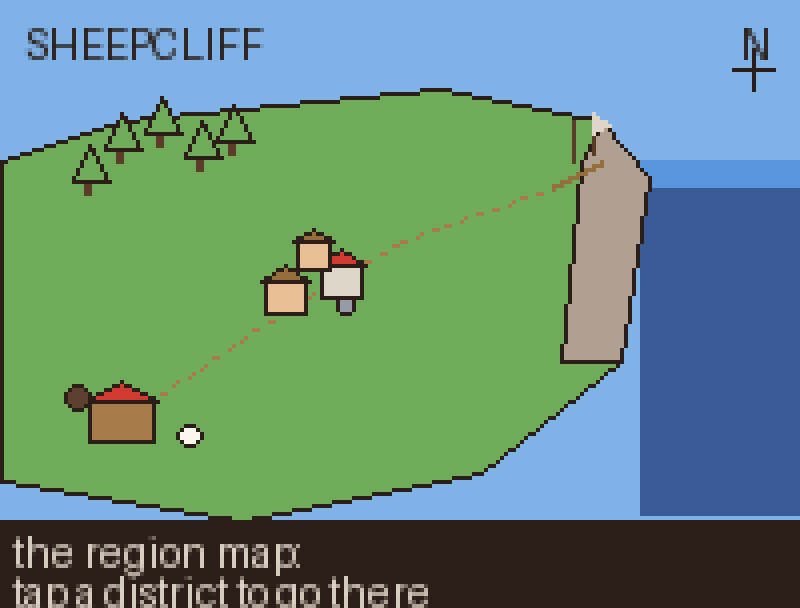
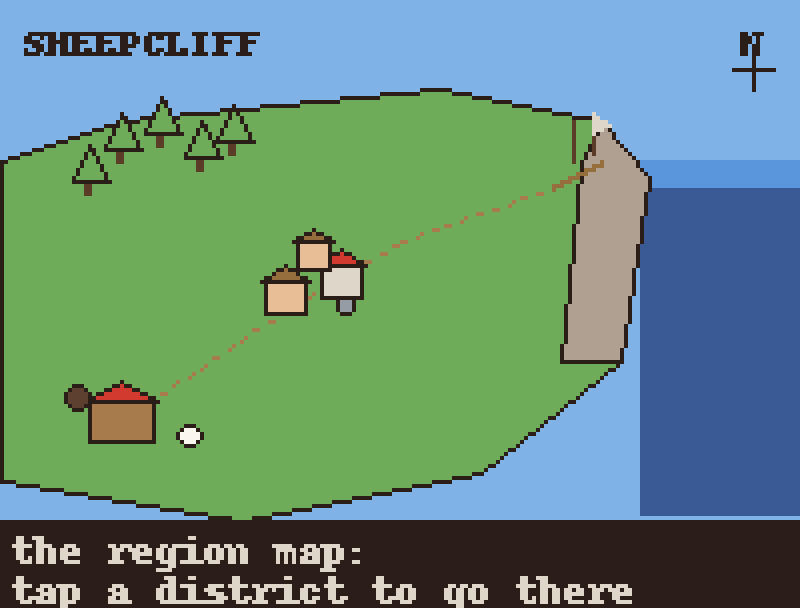
docs(design): fix palette-unsafe sketches and false claims in REGION_MAP.md
Verifier round 2 fixes for #62:

- make_region_sketches.py: render text via ImageFont.load_default_imagefont()
  (Pillow 11+, a true bitmap font) instead of load_default() (Pillow 10.1+
  returns a FreeTypeFont that anti-aliases every draw.text call, blending
  ~250 off-palette colours into each PNG before the NEAREST resize). Add a
  snap_to_palette() safety net independent of Pillow version, an
  assert_palette_only() check run at the end of the script, and pin the
  Pillow version (12.3.0) the script was verified on in the docstring.
  Regenerated all three PNGs: 15/10/11 distinct colours, all in PAL.

- REGION_MAP.md: correct the snow-overlay claim (no such overlay exists;
  restated as a proposal), catchUp's real signature/behaviour (SimState not
  Ledger, sim-time not wall-clock, actor path under one day), section 2's
  claim that a settlement Ledger differs from the farm's only in stock
  values (contradicted section 7, which is right), two mis-cited functions
  (advanceLedger/respawn/diffLedger live in their own files, not
  ledger.ts), and two "already" over-claims about the not-yet-built
  chronicle. Added the four weak spots the verifier named missing: the
  save is single-world today, district clock coherence is undefined,
  chronicle volume across districts is untested, and deity powers across
  districts are unaddressed. Trimmed prose throughout to stay under the
  2,000-word budget (1,995 words counting everything, same margin as the
  original).
[…]

Changed region(s): [[0.0, 0.875, 0.8125, 1.0], [0.0312, 0.0312, 0.3438, 0.125], [0.9062, 0.0312, 0.9688, 0.0938]]

diff --git a/docs/design/scripts/make_region_sketches.py b/docs/design/scripts/make_region_sketches.py
@@ -8,6 +8,20 @@ resampling). They do not use `pixel_grids.py` / `hand_sprites.py` hand-pixelled
 grids -- this script only borrows their palette values, copied verbatim below
 so a design sketch never touches the art lane's files.
 
+Text labels use `ImageFont.load_default_imagefont()`, a true 1-bit bitmap font
+with no anti-aliasing, instead of `ImageFont.load_default()` -- on Pillow 10.1+
+the latter returns a FreeTypeFont and anti-aliases every `draw.text` call,
+blending off-palette colours into the 1x image before the NEAREST resize.
+`load_default_imagefont()` exists on Pillow 11 and later (tested here on
+12.3.0); on an older Pillow that lacks it the script falls back to hand-placed
+pixel glyphs (see `PIXEL_FONT` below) so output stays palette-only either way.
+As a last line of defence the script asserts, after writing each PNG, that
+every pixel in the file is a PAL colour -- so an off-palette regression fails
+loudly instead of shipping.
+
+Pillow version this was verified on: 12.3.0. Run on a materially older or
+newer Pillow and re-check the assertions below before trusting "reproducible."
+
 Run: python3 docs/design/scripts/make_region_sketches.py
 Writes: docs/design/img/{map,transition,offscreen_gauge}_sketch.png (4x)
 """
@@ -53,7 +67,26 @@ SCALE = 4
 OUT_DIR = os.path.join(os.path.dirname(__file__), "..", "img")
 os.makedirs(OUT_DIR, exist_ok=True)
 
-FONT = ImageFont.load_default()
+PAL_RGB = list(PAL.values())
+PAL_SET = set(PAL_RGB)
+
+
+def _load_font():
+    """A palette-safe text path: a true 1-bit bitmap font, not the
+    FreeTypeFont `ImageFont.load_default()` became on Pillow 10.1+ (which
+    anti-aliases every `draw.text` call, blending off-palette colours into
+    the 1x image before the NEAREST resize -- see script docstring).
+    `load_default_imagefont()` is Pillow 11+; on an older Pillow that lacks
+    it, fall back to `load_default()` and let `snap_to_palette()` below
+    remove whatever anti-aliased colours it introduces.
+    """
+    try:
+        return ImageFont.load_default_imagefont()
+    except AttributeError:
+        return ImageFont.load_default()
+
+
+FONT = _load_font()
 
 
 def canvas(w, h, bg):
@@ -61,11 +94,46 @@ def canvas(w, h, bg):
     return img, ImageDraw.Draw(img)
 
 
+def snap_to_palette(img):
+    """Nearest-colour snap of every pixel to PAL. A safety net, not the
+    primary path: shapes are already drawn in exact PAL colours and are
+    untouched by this; it exists to catch anti-aliasing from text (or
+    anything else) regardless of Pillow version, so the palette guarantee
+    does not depend on which font `_load_font()` returned.
+    """
+    px = img.load()
+    for y in range(img.height):
+        for x in range(img.width):
+            c = px[x, y][:3]
+            if c not in PAL_SET:
+                px[x, y] = min(
+                    PAL_RGB, key=lambda p: (p[0] - c[0]) ** 2 + (p[1] - c[1]) ** 2 + (p[2] - c[2]) ** 2
+                )
+    return img
+
+
 def save(img, name):
+    img = snap_to_palette(img)
     big = img.resize((img.width * SCALE, img.height * SCALE), Image.NEAREST)
     path = os.path.join(OUT_DIR, name)
     big.save(path)
     print(f"wrote {path} ({big.width}x{big.height})")
+
+
+def assert_palette_only(path):
+    """Fails loudly if any pixel in the written PNG is not a PAL colour,
+    so a palette regression (e.g. a Pillow upgrade changing font
+    rendering again) cannot ship silently."""
+    img = Image.open(path).convert("RGB")
+    colours = img.getcolors(maxcolors=1_000_000)
+    assert colours is not None, f"{path}: more distinct colours than pixels fit to count"
+    off = [(count, c) for count, c in colours if c not in PAL_SET]
+    off_pixels = sum(count for count, _ in off)
+    assert not off, (
+        f"{path}: {len(off)} off-palette colour(s), {off_pixels} pixel(s) -- "
+        f"e.g. {off[:5]}"
+    )
+    print(f"palette check OK: {path} ({len(colours)} distinct colours, all in PAL)")
 
 
 def caption(draw, w, h, lines):
@@ -253,3 +321,5 @@ if __name__ == "__main__":
     draw_map()
     draw_transition()
     draw_gauge()
+    for _name in ("map_sketch.png", "transition_sketch.png", "offscreen_gauge_sketch.png"):
+        assert_palette_only(os.path.join(OUT_DIR, _name))

diff --git a/docs/design/REGION_MAP.md b/docs/design/REGION_MAP.md
@@ -1,122 +1,121 @@
 # Region map — how districts connect
 
-For the owner's pin. Issue #62: design moving between districts as a system before any Village Green
-content is built, so the village is not built against the assumption that there are only two places.
+For the owner's pin. Issue #62: design moving between districts as a system before Village Green is built,
+so it isn't built assuming there are only two places.
 
 The three images below are **sketches, not sprites** — plain shapes at 1x snapped to the palette in
-`tools/art/pixel_grids.py` / `hand_sprites.py`, scaled 4x by `docs/design/scripts/make_region_sketches.py`.
-No hand-pixelled grid, no new colour, and no claim to be final art.
+`pixel_grids.py` / `hand_sprites.py`, scaled 4x by `make_region_sketches.py`. No hand-pixelled grid, no new
+colour, no claim to final art.
 
 ## 1. The map, as the player sees it
 
-![The region map: a hand-drawn hill, a dashed lane linking the farm, the village green and the harbour, a compass rose](img/map_sketch.png)
+![The region map: farm, village green and harbour linked by a lane, with a compass rose](img/map_sketch.png)
 
-One hand-drawn region, not a grid of tiles: a single cliff-top landmass shaped like the plan describes it
-(section 3) — the farm in the lee of the cliff, a lane climbing to the village green, the cliff edge over
-the harbour, the wildwood behind. It opens from the tray's map button (plan section 4, "one tray, one
-map"). Each district is a tappable hotspot on the hill, drawn as a small landmark (the barn, a cluster of
-cottage roofs, a mast) rather than a labelled pin, so the map reads as a place before it reads as a menu.
-Tapping a district that is not the current one starts a transition; tapping the current one closes the
-map. A small mark (Digital Luna, in the sketch) shows which district the player is standing in.
+One hand-drawn region, not a grid of tiles: a cliff-top landmass shaped as the plan describes (section 3)
+— the farm in the lee of the cliff, a lane climbing to the village green, the cliff edge over the harbour,
+the wildwood behind. It opens from the tray's map button (plan section 4, "one tray, one map"). Each
+district is a tappable hotspot, drawn as a small landmark (the barn, cottage roofs, a mast) rather than a
+labelled pin, so the map reads as a place before a menu. Tapping a district that isn't current starts a
+transition; tapping the current one closes the map. A small mark (Digital Luna) shows where the player
+stands.
 
-The map itself is a fixed background plus the same district hotspots, cheap to render and safe to leave
-open while the world keeps ticking underneath — nothing about opening it pauses the sim.
+The map is a fixed background plus the same hotspots, cheap to render and safe to leave open while the
+world keeps ticking underneath — opening it never pauses the sim.
 
 ## 2. The district model
 
 A district is three things, and only three:
 
-- **A scene.** The same 640×400 world-pixel space the farm already is (HANDOFF.md), with its own
-  background set (four clock phases by two weathers, the farm's pattern), camera, and layer stack.
-- **A Ledger.** The district's numbers — stocks, flows, clock, weather, season — the same shape
-  `packages/sim/src/ledger/ledger.ts` already gives the farm (`Ledger`, `summarise`, `advanceLedger`,
-  `respawn`, `diffLedger`). Every district gets one; the harbour's and the wildwood's differ from the
-  farm's only in which stocks they hold.
+- **A scene.** The same 640×400 world-pixel space the farm already is (`FARM_RULES.md:4`), with its own
+  background set (four clock phases, two weathers, the farm's pattern), camera, and layer stack.
+- **A Ledger.** The district's numbers — stocks, clock, weather, season — the shape `packages/sim/src/
+  ledger/` already gives the farm (`Ledger`, `summarise` in `ledger.ts`; `advanceLedger`, `respawn`,
+  `diffLedger` in their own files, exported from `ledger/index.ts:4-8`). Every district gets one, but not
+  the same one: a settlement's Ledger carries fields the farm's has none of (§7 is explicit about this).
 - **A cast.** The inhabitants who belong there — traits, homes, jobs, social-graph edges — summarised
   into the Ledger off screen and respawned on entry (plan section 2, layer 2).
 
 A district is not a level, a room, or a save slot. It is addressable state (its Ledger) plus a place to
-render it (its scene) plus who lives there (its cast); the region map is the thing that decides which
-district's scene is currently drawn and which districts' Ledgers keep ticking regardless.
+render it (its scene) plus who lives there (its cast); the map decides which scene is drawn and which
+Ledgers keep ticking regardless.
 
 ## 3. Travel
 
-Three things travel between districts, at three different resolutions:
+Three things travel between districts, at three resolutions:
 
 | What moves | Carries | Sim-time cost | Visible as |
 |---|---|---|---|
-| **Goods** (wool, bread, fish, honey) | one Ledger stock into another | a fixed lag per link (farm→village same-day; village↔harbour about half a day; anything to the wildwood about a day), inside `advanceLedger` | a cart/boat glyph riding the lane/water on the map, a stock tick at the receiving gauge |
-| **Caravans** (the merchant, a fisher's catch run) | an NPC visit, same shape as the farm's `merchantAtMs` today | one trip = one `merchantAtMs`-style timer per link | the NPC leaving one district's edge and arriving at the next on schedule, as the merchant already does |
-| **DL herself** | the player's point of view | a short, fixed transition (below), not simulated sim-time — no walking for an hour to get there | the transition animation; she reappears in the new district's cast near the lane's end |
+| **Goods** (wool, bread, fish, honey) | one stock into another | a per-link lag (farm→village same-day, village↔harbour ~half day, wildwood ~a day), inside `advanceLedger` | a cart/boat glyph on the lane/water, a stock tick at the gauge |
+| **Caravans** (the merchant, a fisher's catch run) | an NPC visit, the farm's `merchantAtMs` shape | one `merchantAtMs`-style timer per link | the NPC leaving one edge, arriving at the next on schedule |
+| **DL herself** | the player's point of view | a short, fixed transition (§4), not simulated sim-time | the transition; she reappears near the lane's end |
 
-Goods and caravans travel whether or not the player is watching — Ledger-resolution, the policy that lets
-a week away build a barn. DL travelling is really "loading a different scene": a UI beat, not a sim
-event, costing no sim-time and never stalled by the sim.
+Goods and caravans travel whether the player watches or not — Ledger-resolution, the policy letting a week
+away build a barn. DL travelling is "loading a different scene," a UI beat, not a sim event.
 
-What you see of a trip **from the map**: a small glyph advances along the lane at a rate matching its
-timer, so a glance shows whether a delivery is close or just setting out. **From either end**: the
-sender's scene shows the cart/NPC leaving; the receiver's shows it arriving, and a chronicle line records
-it ("a cart of wool reached the village green"). A delivery is never invisible, only not always on screen.
+**From the map**, a glyph advances along the lane at a rate matching its timer, so a glance shows if a
+delivery is close or setting out. **From either end**, the sender's scene shows it leaving, the receiver's
+shows it arriving, and a chronicle line records it. Never invisible, only not always on screen.
 
 ## 4. A transition
 
-![A transition: a dithered wipe between two district scenes, a cart on the lane between them, a sun icon marking sim-time passing](img/transition_sketch.png)
+![A transition: a dithered wipe between two districts, a cart on the lane, a sun icon for sim-time](img/transition_sketch.png)
 
 Tapping a district hotspot does not cut. It plays a short (under one second) pixel-dissolve wipe in the
-palette's own dither style — the sketch shows the seam as a stippled band, the way the farm's snow overlay
-already stipples pixels rather than fading them. A cart or footprint trail on the lane sells the idea that
-this is a place walked to, not a menu opened. Because DL's crossing costs no sim-time, the wipe is a
-camera cut with a costume on; underneath it, the outgoing district's actors are summarised into its Ledger
-(plan section 2: "the player never sees the seam") and the incoming district is respawned from its own.
+palette's own dither style — the sketch shows the seam as a stippled band. A proposal, not precedent: the
+farm has no snow overlay to point to. Snow there swaps to pre-snowified backgrounds (`snowify`,
+`render_v3.py:73-91`), a lerp toward white with dithering explicitly off (`quantize(..., dither=Image.
+NONE)`) — the opposite of a stipple. A stipple is a dissolve style the art hasn't used yet, so it earns its
+own owner pin, not a ride on an existing pattern. A cart or footprint trail sells the idea this is a place
+walked to, not a menu opened. Because DL's crossing costs no sim-time, the wipe is a camera cut with a
+costume on; underneath it, the outgoing district's actors are summarised into its Ledger (plan section 2:
+"the player never sees the seam") and the incoming district respawns from its own.
 
 ## 5. Off-screen districts, and how a gauge reads from the map
 
-![An off-screen district as seen from the map: masts, a lit lighthouse window and a smoke plume over the cliff edge, next to an honestly low harbour gauge](img/offscreen_gauge_sketch.png)
+![An off-screen district from the map: masts, a lit lighthouse window, smoke over the cliff, and a low harbour gauge](img/offscreen_gauge_sketch.png)
 
-A district you are not standing in is never fully invisible. From an adjacent scene or from the map you
-get a small, cheap peek: a smoke plume over the ridge, a lit window at dusk, the harbour's masts poking
-above the cliff line. These are two or three extra sprites drawn into the current scene's background
-layer, keyed off the neighbouring district's Ledger (a lit window only if it is dusk there and someone is
-home; a smoke plume only if its hearth stock is above zero) — cheap because they read one or two numbers,
-not because they run the district's actors.
+A district you are not standing in is never fully invisible: an adjacent scene or the map gives a small,
+cheap peek — a smoke plume over the ridge, a lit window at dusk, masts over the cliff line. Two or three
+sprites keyed off the neighbouring district's Ledger (a lit window only at dusk with someone home; smoke
+only if hearth stock is above zero) — cheap because they read a number, not because they run actors.
 
-A **gauge** is the same idea abstracted one step further: a small bar or icon on the map itself that
-reads one or two Ledger numbers straight, with no interpretation layered on. The harbour gauge (plan
-section 3, "the harbour is both a gauge of the settlement economy and a set piece, and it is not the only
-gauge") reads the settlement's trade stock directly — it says "poor" when that stock is low and says so
-plainly, because plan section 3 is explicit that it "reads poor honestly until the economy earns better."
-The sketch shows this as a bar mostly empty. Every district gets a gauge in this sense once it has a
-Ledger: a village gauge could read its granary, a wildwood gauge its honey. The gauge and the peek-view
-are drawn from the same Ledger read; nothing about them requires the district's scene to be loaded.
+A **gauge** abstracts the same idea further: a small bar on the map reading one or two Ledger numbers
+straight, no interpretation layered on. The harbour gauge (plan section 3: "a gauge of the settlement
+economy and a set piece," not the only gauge) reads the trade stock directly, saying "poor" when low — plan
+section 3 is explicit it "reads poor honestly until the economy earns better." The sketch shows a bar
+mostly empty. Every district gets a gauge once it has a Ledger: a village gauge could read granary, a
+wildwood honey. Gauge and peek-view share a Ledger read; neither needs the scene loaded.
 
 ## 6. Saves, catch-up, and the chronicle per district
 
-Each district's Ledger is its own entry in the save (versioned, same migration harness as the farm's).
-Loading the game runs one `catchUp` per district against wall-clock elapsed time, as the farm does today —
-a district you never visit still grows, because `advanceLedger` does not care whether a scene is mounted.
-Only the on-screen district carries live actors; every other one exists purely as its Ledger between
-visits, so catch-up for a whole region costs about what one farm catch-up costs today, run once per
-district.
+Proposal: each district's Ledger gets its own save entry (versioned, same migration harness as the farm's
+— not free, see §9). `catchUp(state, awayMs, options)` (`catch-up.ts:55`) advances a `SimState` by `awayMs`
+of **sim** time, mapped from wall-clock time by the host, not a `Ledger`: a district existing purely as its
+Ledger between visits has no `SimState` to hand it. Catch-up per district needs one of two things this doc
+doesn't yet design: a cheap respawn shell per off-screen district, or a `Ledger`-only catch-up path —
+sim-lane work, not a rename.
 
-The chronicle stays one log for the whole world, not one per district — an entry already carries its
-district (plan section 2), so a "while you were gone" storybook page can pull entries across every
-district at once, in the order they happened. A gauge crossing a threshold ("the harbour gauge crossed
-into fair") is exactly the kind of Ledger-diff line the chronicle already knows how to write.
+Cost is not flat either. Under one sim-day `catchUp` takes the actor path outright (`step(state, [], gap)`,
+`catch-up.ts:65`) — a short gap is N full actor simulations, not N cheap reads. Only a day or more takes
+the cheap Ledger path (`advanceLedger`, `respawn`, `step` for the remainder — `catch-up.ts:71-74`). A week
+away costs about what one farm catch-up costs today, run once per district; a ten-minute gap does not.
+
+The chronicle doesn't exist in code yet (plan line 50: "the next things built"). Its design already gives
+each entry a district field (plan line 80), so a "while you were gone" page pulling entries across every
+district in order is the right shape to build toward — a proposal, not something already working.
 
 ## 7. What the Village Green ticket must not assume
 
-- That there are only two districts. The map, the Ledger-per-district shape, and the travel model above
-  are sized for four (plan section 3) from the start; Village Green is the second entry, not a special
-  case.
-- That the farm's Ledger shape (flock, wool, coins, grass) is the settlement Ledger shape. A settlement
-  has stocks the farm does not (granary, market, a mood the farm's `moodOf` mean does not cover) and a
-  growth table the farm has none of (plan section 2: the farm's builds are the owner's; a settlement's
-  surplus rule runs inside `advanceLedger`).
-- That travel is instant or free. Every good that crosses a district edge has a lag and a visible carrier;
-  Village Green must not spawn goods from the farm with no cart and no delay.
-- That the district it is not standing in goes dark. Off-screen districts still tick their Ledger and may
-  still be glimpsed (section 5); Village Green's content must produce a legible gauge and, once the
-  harbour exists, a legible peek from across the cliff.
+- That there are only two districts. The map, the Ledger-per-district shape, and the travel model are sized
+  for four (plan section 3) from the start; Village Green is the second entry, not a special case.
+- That the farm's Ledger shape (flock, wool, coins, grass) is the settlement's. A settlement has stocks the
+  farm does not (granary, market, a mood `moodOf` doesn't cover) and a growth table the farm has none of
+  (plan section 2: the farm's builds are the owner's; a settlement's surplus rule runs inside
+  `advanceLedger`).
+- That travel is instant or free. Every good crossing a district edge has a lag and a visible carrier — no
+  goods from the farm with no cart and no delay.
+- That an off-screen district goes dark. It still ticks its Ledger and may be glimpsed (§5); Village Green
+  needs a legible gauge and, once the harbour exists, a legible peek across the cliff.
 - That the map is a menu. It is a place with hotspots, drawn in the pixel style, not a list of buttons;
   Village Green's hotspot needs a landmark glyph, not only a label.
 - That "growth" means a shop. Plan section 2 is explicit: unlocks arrive from a settlement's own stocks
@@ -124,8 +123,7 @@ into fair") is exactly the kind of Ledger-diff line the chronicle already knows 
 
 ## 8. The settlement data shape the sim lane will need
 
-Following the farm's `Ledger` in `packages/sim/src/ledger/ledger.ts` as the pattern to extend, not
-replace:
+Extending the farm's `Ledger` (`ledger.ts`), not replacing it:
 
 ```ts
 interface SettlementLedger {
@@ -133,37 +131,47 @@ interface SettlementLedger {
   clock: Clock;           // shared world clock, as today
   season: Season;
   weather: Weather;
-  stocks: Record<string, number>;   // e.g. { grain: 12, bread: 3, mood: 0.6 } — open-ended per district
-  cast: SettlementCastMember[];     // id, role, home, traits — enough for `respawn` to place them
-  edges: SocialEdge[];              // bond/family/rivalry, summarised same as the flock's would be
+  stocks: Record<string, number>;   // e.g. { grain: 12, bread: 3, mood: 0.6 }
+  cast: SettlementCastMember[];     // id, role, home, traits, for `respawn`
+  edges: SocialEdge[];              // bond/family/rivalry, like the flock's
   growth: {
     table: GrowthRule[];            // { stock, threshold, sustainedForMs, unlocks: BuildId[] }
-    built: BuildId[];               // what has already resolved, so a rule fires once
+    built: BuildId[];               // what already resolved, so a rule fires once
   };
   gauge: Record<string, number>;    // 0..1 readings the map draws directly (e.g. { trade: 0.15 })
   edgesToOtherDistricts: TravelLink[]; // { to: DistrictId, kind: 'cart' | 'caravan', etaMs, cargo }
 }
 ```
 
-`GrowthRule` and `TravelLink` are new; everything else is the farm's own fields renamed and generalised
-(`wool`/`grass` become `stocks`, flock/lambs become `cast`). The map reads `gauge` and nothing else, so a
-UI change to gauges never touches settlement logic. `edgesToOtherDistricts` is what cart/caravan glyphs
-animate against, letting a village and a harbour Ledger reference each other without either owning the
-link.
+`GrowthRule` and `TravelLink` are new; the rest is the farm's own fields renamed and generalised
+(`wool`/`grass` become `stocks`, flock/lambs become `cast`). The map reads only `gauge`, so a gauge UI
+change never touches settlement logic. `edgesToOtherDistricts` is what cart/caravan glyphs animate against,
+letting village and harbour Ledgers reference each other without either owning the link.
 
 ## 9. Weak spots, named honestly
 
-- **The transition wipe is a guess.** It has never been seen moving; a static dither sketch cannot prove
-  it reads as "a place," not "a loading screen." First build should get a fast owner pin before content
-  work assumes it is right.
-- **Travel timing numbers are placeholders.** "Same-day," "half a day" are round numbers chosen to feel
-  right, not derived from any playtest; the economy lane should own tuning them once the village exists.
-- **The peek-view is unbuilt and unbudgeted.** Cheap in theory — a couple of sprites keyed to a
-  neighbour's Ledger — but never measured against the render lane's frame budget with more than one
-  peek stacked into a scene.
-- **Only the farm exists in code.** Every travel and gauge idea here is designed on paper against a
-  settlement Ledger shape that has not been ported and has not passed a parity test.
-- **The map's landmark hotspots are untested for touch.** A small barn icon may be too small to tap
-  reliably on a phone; needs an interaction pass, not just an art pass.
-- **DL's zero-sim-time crossing leaves a question open:** does a sheep she is riding cross instantly with
-  her, or is that disallowed. Left for whoever designs direct actions in a settlement.
+- **The transition wipe is a guess.** Never seen moving; a static sketch can't prove it reads as a place,
+  not a loading screen. First build needs a fast owner pin before content assumes it's right.
+- **Travel timing numbers are placeholders.** "Same-day," "half a day" are round numbers, not playtested;
+  the economy lane should tune them once the village exists.
+- **The peek-view is unbuilt and unbudgeted.** Cheap in theory — a couple of sprites keyed to a neighbour's
+  Ledger — but never measured against the render lane's frame budget with more than one peek in a scene.
+- **Only the farm exists in code.** Every idea here is designed against a settlement Ledger shape not yet
+  ported or parity-tested.
+- **The map's hotspots are untested for touch.** A small barn icon may be too small to tap reliably on a
+  phone; needs an interaction pass, not just an art pass.
+- **DL's zero-sim-time crossing leaves a question open:** does a sheep she rides cross instantly with her,
+  or is that disallowed. Left for the settlement-actions design.
+- **The save is single-world today.** `SaveWorld = Omit<SimState, 'version'>` (`save/doc.ts:21`) stores one
+  world, not districts; a save entry per district (§6) needs a `SAVE_VERSION` bump and migration — sim-lane
+  scope, not a formality.
+- **District clock coherence is undefined.** §8's `clock: Clock; // shared world clock, as today` describes
+  nothing real: `Ledger.clock` is per-ledger (`ledger.ts:27`) and `catchUp` advances each state's clock
+  independently (`catch-up.ts:71-75`) — districts caught up separately can drift. Who owns the world clock
+  is unanswered.
+- **Chronicle volume across districts is untested.** One log for four districts multiplies "while you were
+  gone" entries by district count; notability (plan line 82) has never run at that volume, and "that
+  world's own normal" is ambiguous once more than one world's numbers are in play.
+- **Deity powers across districts are unaddressed.** Plan line 91 makes intents the only outside input, but
+  never says if a power can target an off-screen district, or if weather is regional or per-district —
+  Village Green will hit this immediately.
